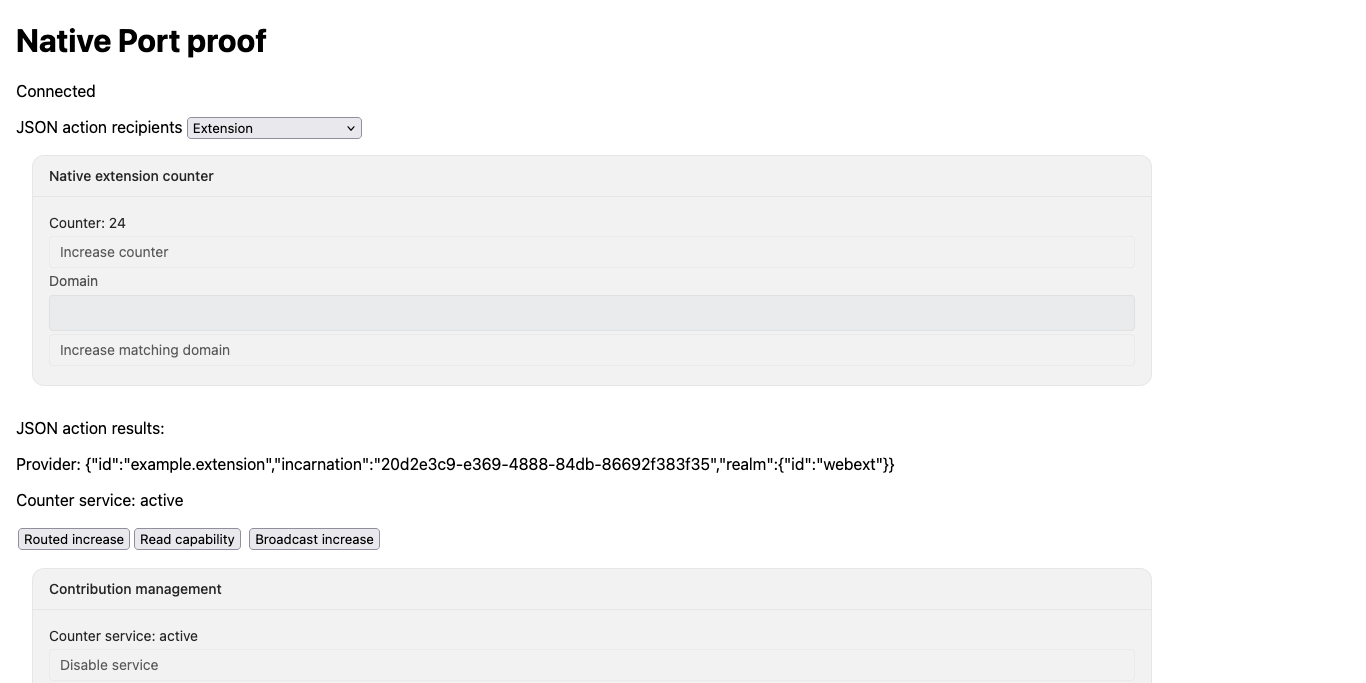
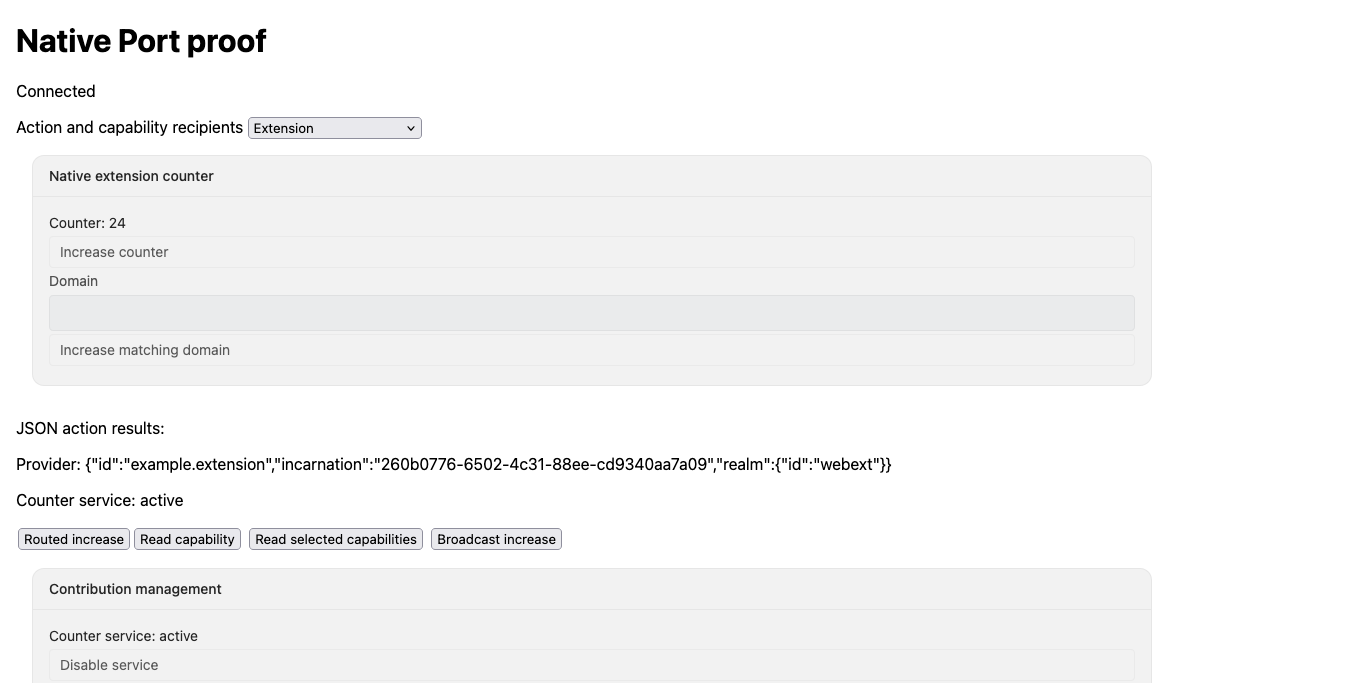
feat(routing): demonstrate native capability broadcast (#7)

Changed region(s): [[0.2767, 0.6457, 0.6764, 0.7072], [0.0, 0.1537, 0.2152, 0.2152], [0.1845, 0.7687, 0.4305, 0.7994]]

diff --git a/examples/webext/tests/configured-servers.ts b/examples/webext/tests/configured-servers.ts
@@ -34,6 +34,7 @@ export async function checkConfiguredServers(page: Page, peer: Page): Promise<vo
   await expect(page.locator('#server-result')).toHaveText('3');
   assert.equal(await readCounter(devframe), 3);
   assert.equal(await readCounter(devtools), 2);
+  await checkCapabilityBroadcast(page, devframe, devtools);
   await devframe.close();
   await expect(page.locator('#providers')).toContainText('"status":"unknown"');
   await page.getByRole('button', { name: 'Increase with extension fallback' }).click();
@@ -43,6 +44,73 @@ export async function checkConfiguredServers(page: Page, peer: Page): Promise<vo
   await expect(page.locator('#server-result')).toContainText('rejected');
   await expect(page.locator('#server-result')).toContainText('fulfilled');
   assert.equal(await readCounter(devtools), 3);
+  await checkDisconnectedCapabilities(page, devframe, devtools);
+}
+
+async function checkDisconnectedCapabilities(
+  page: Page,
+  devframe: ServerHost,
+  devtools: ServerHost,
+): Promise<void> {
+  await checkCapabilities(page, 'all', [
+    {
+      provider: JSON.parse(await page.locator('#provider').innerText()) as unknown,
+      status: 'fulfilled',
+      value: 16,
+    },
+    {
+      provider: devframe.provider.provider,
+      status: 'rejected',
+      reason: { code: 'unavailable-provider' },
+    },
+    { provider: devtools.provider.provider, status: 'fulfilled', value: 3 },
+  ]);
+}
+
+async function checkCapabilityBroadcast(
+  page: Page,
+  devframe: ServerHost,
+  devtools: ServerHost,
+): Promise<void> {
+  const extension: unknown = JSON.parse(await page.locator('#provider').innerText());
+  const extensionResult = { provider: extension, status: 'fulfilled', value: 15 };
+  const devframeResult = { provider: devframe.provider.provider, status: 'fulfilled', value: 3 };
+  const devtoolsResult = { provider: devtools.provider.provider, status: 'fulfilled', value: 2 };
+  const all = [extensionResult, devframeResult, devtoolsResult];
+  await checkCapabilities(page, 'all', all);
+  await checkCapabilities(page, 'servers', [devframeResult, devtoolsResult]);
+  await checkCapabilities(page, 'devframe', [devframeResult]);
+  await checkCapabilities(page, 'extension', [extensionResult]);
+  await page
+    .locator('#management')
+    .getByRole('button', { name: 'Disable service', exact: true })
+    .click();
+  await expect(page.locator('#catalog')).toHaveText('disabled');
+  await checkCapabilities(page, 'all', [
+    { provider: extension, status: 'rejected', reason: { code: 'unavailable-provider' } },
+    devframeResult,
+    devtoolsResult,
+  ]);
+  await page
+    .locator('#management')
+    .getByRole('button', { name: 'Enable service', exact: true })
+    .click();
+  await expect(page.locator('#catalog')).toHaveText('active');
+  await checkCapabilities(page, 'all', all);
+}
+
+async function checkCapabilities(
+  page: Page,
+  selection: string,
+  expected: readonly unknown[],
+): Promise<void> {
+  await page.locator('#json-selection').selectOption(selection);
+  await page.getByRole('button', { name: 'Read selected capabilities', exact: true }).click();
+  await expect(page.locator('#result')).toHaveText(/^\[.*\]$/u);
+  const outcomes: unknown = JSON.parse(await page.locator('#result').innerText());
+  assert.ok(Array.isArray(outcomes));
+  assert.equal(outcomes.length, expected.length);
+  assert.partialDeepStrictEqual(outcomes, expected);
 }
 
 async function checkDeniedOrigin(page: Page): Promise<void> {

diff --git a/examples/webext/tests/firefox-servers.ts b/examples/webext/tests/firefox-servers.ts
@@ -47,6 +47,7 @@ export async function checkFirefoxServers(driver: Driver): Promise<void> {
   await result(driver, /^5$/u);
   assert.equal(await readCounter(devframe), 5);
   assert.equal(await readCounter(devtools), 3);
+  await checkCapabilityBroadcast(driver, devframe, devtools);
   await checkDisconnectedServer(driver, devframe, devtools);
   await checkReconnectedView(driver, devtools);
 }
@@ -96,6 +97,69 @@ async function checkDisconnectedServer(
   await result(driver, /rejected/u, '#json-result');
   assert.equal(await readCounter(devtools), 4);
   await viewText(driver, 'example.devtools', 4);
+  await checkCapabilities(driver, 'all', [
+    {
+      provider: JSON.parse(await driver.findElement(By.css('#provider')).getText()) as unknown,
+      status: 'fulfilled',
+      value: 16,
+    },
+    {
+      provider: devframe.provider.provider,
+      status: 'rejected',
+      reason: { code: 'unavailable-provider' },
+    },
+    { provider: devtools.provider.provider, status: 'fulfilled', value: 4 },
+  ]);
+}
+
+async function checkCapabilityBroadcast(
+  driver: Driver,
+  devframe: ServerHost,
+  devtools: ServerHost,
+): Promise<void> {
+  const extension: unknown = JSON.parse(await driver.findElement(By.css('#provider')).getText());
+  const extensionResult = { provider: extension, status: 'fulfilled', value: 15 };
+  const devframeResult = { provider: devframe.provider.provider, status: 'fulfilled', value: 5 };
+  const devtoolsResult = { provider: devtools.provider.provider, status: 'fulfilled', value: 3 };
+  const all = [extensionResult, devframeResult, devtoolsResult];
+  await checkCapabilities(driver, 'all', all);
+  await checkCapabilities(driver, 'servers', [devframeResult, devtoolsResult]);
+  await checkCapabilities(driver, 'devframe', [devframeResult]);
+  await checkCapabilities(driver, 'extension', [extensionResult]);
+  await changeService(driver, 'Disable service', 'disabled');
+  await checkCapabilities(driver, 'all', [
+    { provider: extension, status: 'rejected', reason: { code: 'unavailable-provider' } },
+    devframeResult,
+    devtoolsResult,
+  ]);
+  await changeService(driver, 'Enable service', 'active');
+  await checkCapabilities(driver, 'all', all);
+}
+
+async function changeService(driver: Driver, label: string, status: string): Promise<void> {
+  const root = await driver.findElement(By.css('#management')).getShadowRoot();
+  const buttons = await root.findElements(By.css('button'));
+  for (const button of buttons) {
+    if ((await button.getText()) !== label) continue;
+    await button.click();
+    await result(driver, new RegExp(`^${status}$`, 'u'), '#catalog');
+    return;
+  }
+  throw new Error(`Missing JSON management action ${label}`);
+}
+
+async function checkCapabilities(
+  driver: Driver,
+  selection: string,
+  expected: readonly unknown[],
+): Promise<void> {
+  await driver.findElement(By.css(`#json-selection option[value="${selection}"]`)).click();
+  await driver.findElement(By.css('#capabilities')).click();
+  await result(driver, /^\[.*\]$/u, '#result');
+  const outcomes: unknown = JSON.parse(await driver.findElement(By.css('#result')).getText());
+  assert.ok(Array.isArray(outcomes));
+  assert.equal(outcomes.length, expected.length);
+  assert.partialDeepStrictEqual(outcomes, expected);
 }
 
 async function checkDeniedOrigin(driver: Driver): Promise<void> {

diff --git a/examples/webext/tests/firefox.ts b/examples/webext/tests/firefox.ts
@@ -21,6 +21,14 @@ if (process.env.FIREFOX_BINARY !== undefined) options.setBinary(process.env.FIRE
 const service = new ServiceBuilder().addArguments('--allow-system-access');
 const driver = Driver.createSession(options, service.build());
 const origin = `moz-extension://${extensionUuid}`;
+const capabilityChecks = [
+  'portable action, capability and explicit routing',
+  'broadcast and catalog disable/enable reach both pages',
+  'native capability broadcast reads independent values from all three providers',
+  'native capability broadcast honors realm and explicit provider selection',
+  'native capability broadcast preserves successful servers while the extension service is disabled and recovers after enable',
+  'native capability broadcast preserves successful recipients after server disconnect',
+];
 
 try {
   await mkdir('artifacts/firefox', { recursive: true });
@@ -251,8 +259,6 @@ async function saveEvidence(surfaceChecks: string[]): Promise<void> {
       'pending call rejects on disconnect and renderer unmounts',
       'backend completes once without replay after reconnect',
       'provider incarnation survives page reconnect',
-      'portable action, capability and explicit routing',
-      'broadcast and catalog disable/enable reach both pages',
       'native JSON management controls disable and reenable the service with authoritative status on both pages',
       'management renderer unmounts on disconnect and remounts once with current state',
       'detached management button cannot disable the service after disconnect',
@@ -266,6 +272,7 @@ async function saveEvidence(surfaceChecks: string[]): Promise<void> {
       'native JSON explicit provider filter excludes other recipients',
       'native JSON broadcast preserves successful siblings after server disconnect',
       'explicit provider preference, disconnect fallback and partial broadcast failure',
+      ...capabilityChecks,
       'late native view publication on both server connections',
       'identical native view keys retain separate state and action ownership',
       'view removal and republication leave one working mount',

diff --git a/examples/webext/src/panel.ts b/examples/webext/src/panel.ts
@@ -1,6 +1,6 @@
 import { createExampleConnection } from './connection';
 import { mountServerControls } from './servers';
-import { createRendererRpc } from './renderer-actions';
+import { createRendererRpc, recipients } from './renderer-actions';
 import { mountPermissionControls } from './permissions';
 import type { DevframeJsonRenderSpec } from '@devframes/json-render';
 import renderer from '@devframes/json-render-ui/renderer';
@@ -155,6 +155,14 @@ onClick('#capability', async () => {
   if (resolution.status !== 'available') throw new Error(`Counter is ${resolution.reason}`);
   return resolution.binding.api.read({});
 });
+onClick('#capabilities', () =>
+  routedClient.capabilities.broadcast({
+    capability: counterCapability,
+    operation: 'read',
+    input: {},
+    selection: recipients(document.querySelector<HTMLSelectElement>('#json-selection')!.value),
+  }),
+);
 onClick('#broadcast', () =>
   routedClient.actions.broadcast({
     action: increaseCounterAction,

diff --git a/examples/webext/tests/browser.ts b/examples/webext/tests/browser.ts
@@ -173,6 +173,10 @@ try {
       'native origin allowlist and rejected credentials',
       'simultaneous isolated Devframe, DevTools and extension providers',
       'realm broadcast and explicit provider preference',
+      'native capability broadcast reads independent values from all three providers',
+      'native capability broadcast honors realm and explicit provider selection',
+      'native capability broadcast preserves successful servers while the extension service is disabled and recovers after enable',
+      'native capability broadcast preserves successful recipients after server disconnect',
       'fallback after native server disconnect and partial broadcast failure',
       'selected document hands off its natively published connection',
       'absent, malformed and closed selected documents reject without attaching',

diff --git a/examples/webext/entrypoints/panel.html b/examples/webext/entrypoints/panel.html
@@ -9,7 +9,7 @@
     <h1>Native Port proof</h1>
     <p id="status">Connecting</p>
     <label
-      >JSON action recipients
+      >Action and capability recipients
       <select id="json-selection">
         <option value="extension">Extension</option>
         <option value="servers">Dev servers</option>
@@ -22,6 +22,7 @@
     <p>Provider: <output id="provider"></output></p>
     <p>Counter service: <output id="catalog"></output></p>
     <button id="routed">Routed increase</button><button id="capability">Read capability</button>
+    <button id="capabilities">Read selected capabilities</button>
     <button id="broadcast">Broadcast increase</button>
     <section id="management"></section>
     <button id="identity">Caller identity</button><button id="write">Native write</button>

diff --git a/examples/webext/src/renderer-actions.ts b/examples/webext/src/renderer-actions.ts
@@ -59,7 +59,7 @@ export function createRendererRpc(options: {
   };
 }
 
-function recipients(value: string): BroadcastInvocationOptions['selection'] {
+export function recipients(value: string): BroadcastInvocationOptions['selection'] {
   if (value === 'all') return [{ realm: 'devserver' }, { realm: 'webext' }];
   if (value === 'servers') return [{ realm: 'devserver' }];
   if (value === 'devframe') return [{ realm: 'devserver', provider: 'example.devframe' }];

diff --git a/examples/webext/README.md b/examples/webext/README.md
@@ -22,7 +22,7 @@ flowchart LR
 
 The worker admits only its own extension ID, expected channel name and exact packaged page URL. Its native RPC metadata retains each actual sender. The channel uses Devframe's records serializer. Native state accepts normal native writes, and view publication retains one context object for its index and duplicate detection. Each page owns its RPC close, state mirrors and renderer disposal. Disconnect does not cancel remote side effects or replay an action.
 
-The Chromium test uses a disposable profile and removes it afterward. Its 43 scenarios cover native Port RPC/state/rendering and disposal, portable action/capability calls, catalog updates in both clients, configured-server routing and the selected-page handoff below. The [recorded run](./evidence/receipt.json) lists every scenario and passed with zero page errors. Fresh runs write their screenshot and receipt under ignored `artifacts/`.
+The Chromium test uses a disposable profile and removes it afterward. Its 47 scenarios cover native Port RPC/state/rendering and disposal, portable action/capability calls, catalog updates in both clients, configured-server routing and the selected-page handoff below. The [recorded run](./evidence/receipt.json) lists every scenario and passed with zero page errors. Fresh runs write their screenshot and receipt under ignored `artifacts/`.
 
 ![Native renderer using the installed workspace dependencies](./evidence/native-port-proof.png)
 
@@ -54,7 +54,7 @@ FIREFOX_BINARY=/Applications/Firefox.app/Contents/MacOS/firefox \
 
 The driver owns a temporary profile, assigns this add-on a test-only origin UUID and removes the session on exit. Its `--allow-system-access` option permits automation of `moz-extension` documents; it is never applied to a normal browsing profile. WebDriver Classic provides working extension-page navigation. Firefox BiDi currently omits extension-page lifecycle events, causing Puppeteer navigation to time out, as tracked in [Puppeteer #14314](https://github.com/puppeteer/puppeteer/issues/14314).
 
-The [Firefox receipt](./evidence/firefox/receipt.json) records 47 scenario groups. They cover real Port RPC, native rendering/state, rich values, disconnection, catalog updates, mixed Devframe/DevTools/extension routing, native origin/auth rejection and selected-page handoff. These tests assert actual browser DOM and backend state. WebDriver Classic does not provide global page-error capture here, so this receipt makes no zero-page-error claim. The Chromium receipt still includes that assertion. Both suites open actual options pages and toolbar popups through native APIs. Both suites also exercise the real DevTools panel and browser sidebar lifetimes described below.
+The [Firefox receipt](./evidence/firefox/receipt.json) records 51 scenario groups. They cover real Port RPC, native rendering/state, rich values, disconnection, catalog updates, mixed Devframe/DevTools/extension routing, native origin/auth rejection and selected-page handoff. These tests assert actual browser DOM and backend state. WebDriver Classic does not provide global page-error capture here, so this receipt makes no zero-page-error claim. The Chromium receipt still includes that assertion. Both suites open actual options pages and toolbar popups through native APIs. Both suites also exercise the real DevTools panel and browser sidebar lifetimes described below.
 
 ![Firefox native renderer and mixed-provider state](./evidence/firefox/native-port-proof.png)
 
@@ -219,6 +219,10 @@ flowchart LR
 ```
 
 `tests/configured-servers.ts` starts real Devframe and DevTools backends using the same imported counter contracts. It proves denied origin and invalid credentials leave counters unchanged, both authorized connections coexist, a devserver-only broadcast excludes the extension, and an all-realm broadcast updates all three providers. Explicit preference selects Devframe; after its shutdown, a new invocation falls back to the extension. A subsequent broadcast returns a rejected Devframe outcome and a fulfilled DevTools result. No request is replayed after dispatch.
+
+**Read selected capabilities** is a diagnostic control that calls `client.capabilities.broadcast` with the shared counter contract's `read` operation. It uses the same recipient picker as the JSON action, and displays each provider's identity and separate outcome in the diagnostic result. The existing Port and isolated WebSocket connections own the calls. This control remains host-authored HTML, alongside the connection probes.
+
+Both production browser suites click the control after their actions have produced different values on all three providers. They check exact recipient counts, realm/provider IDs and backend incarnations for all-realm, devserver-only, explicit Devframe and extension-only selection. Disabling the extension service returns `unavailable-provider` beside successful server results; reenabling it restores the same values. Closing Devframe returns its failure beside successful extension and DevTools results. These reads add no counter mutations. The [Chromium receipt](./evidence/receipt.json) and [Firefox receipt](./evidence/firefox/receipt.json) record the four capability-broadcast checks. The separate unit suite covers selector errors, action deduplication/cancellation and capability handler failures; these browser checks do not extend those cases.
 
 These controls demonstrate application-owned explicit configuration. The selected-page alternative below uses the same owned connection setup. The reference JSON view still renders the extension provider's native state; cross-provider view composition remains separate work.
 
